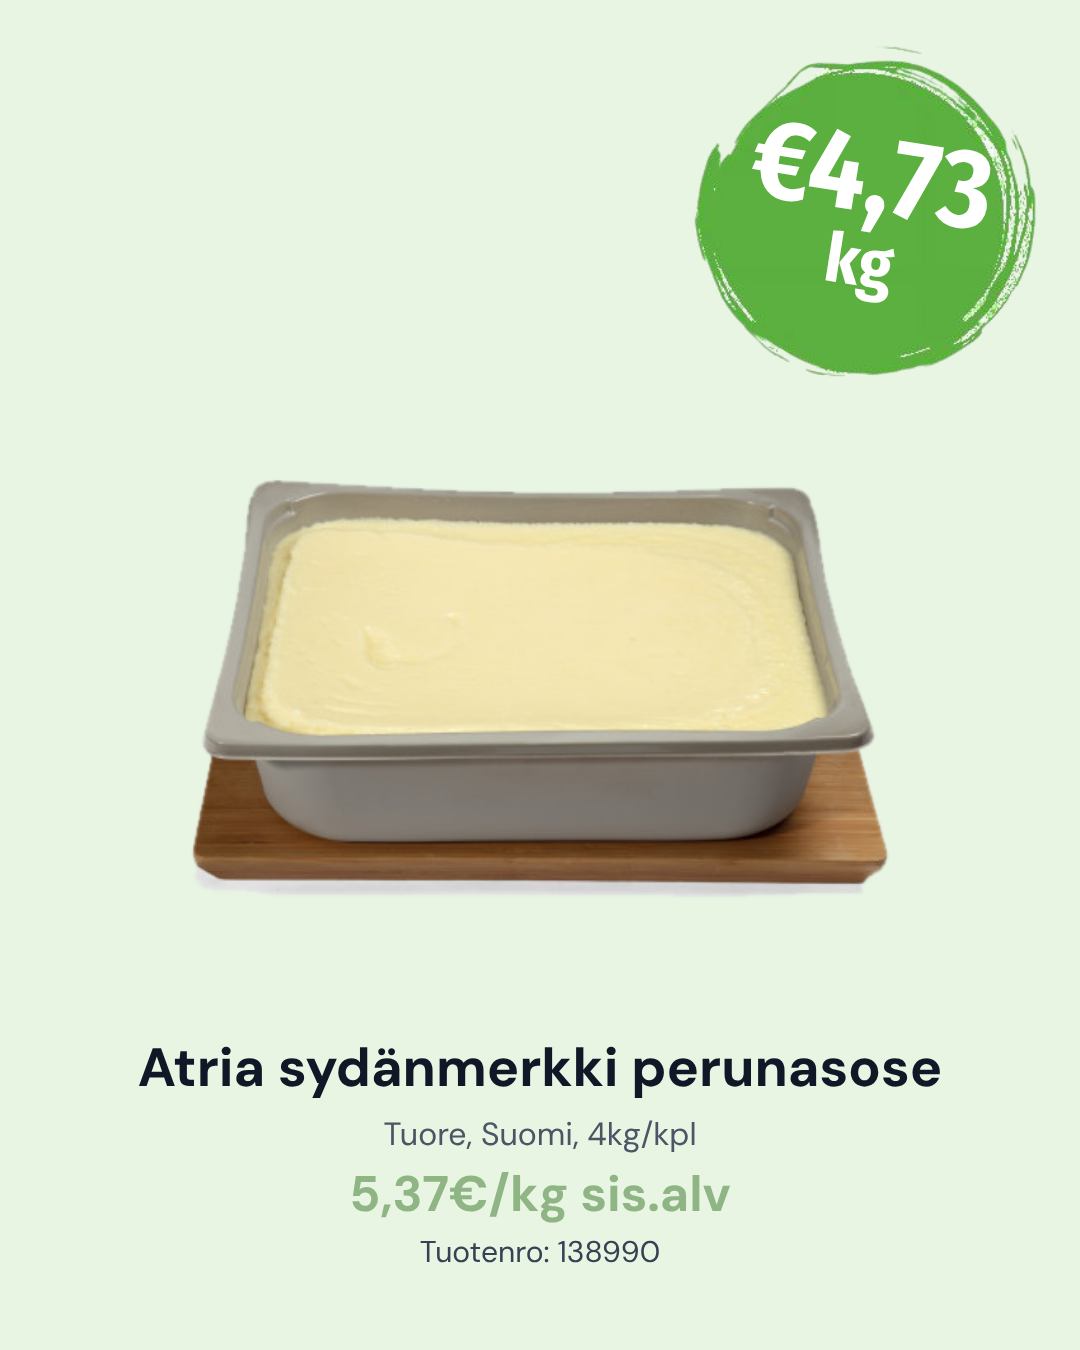
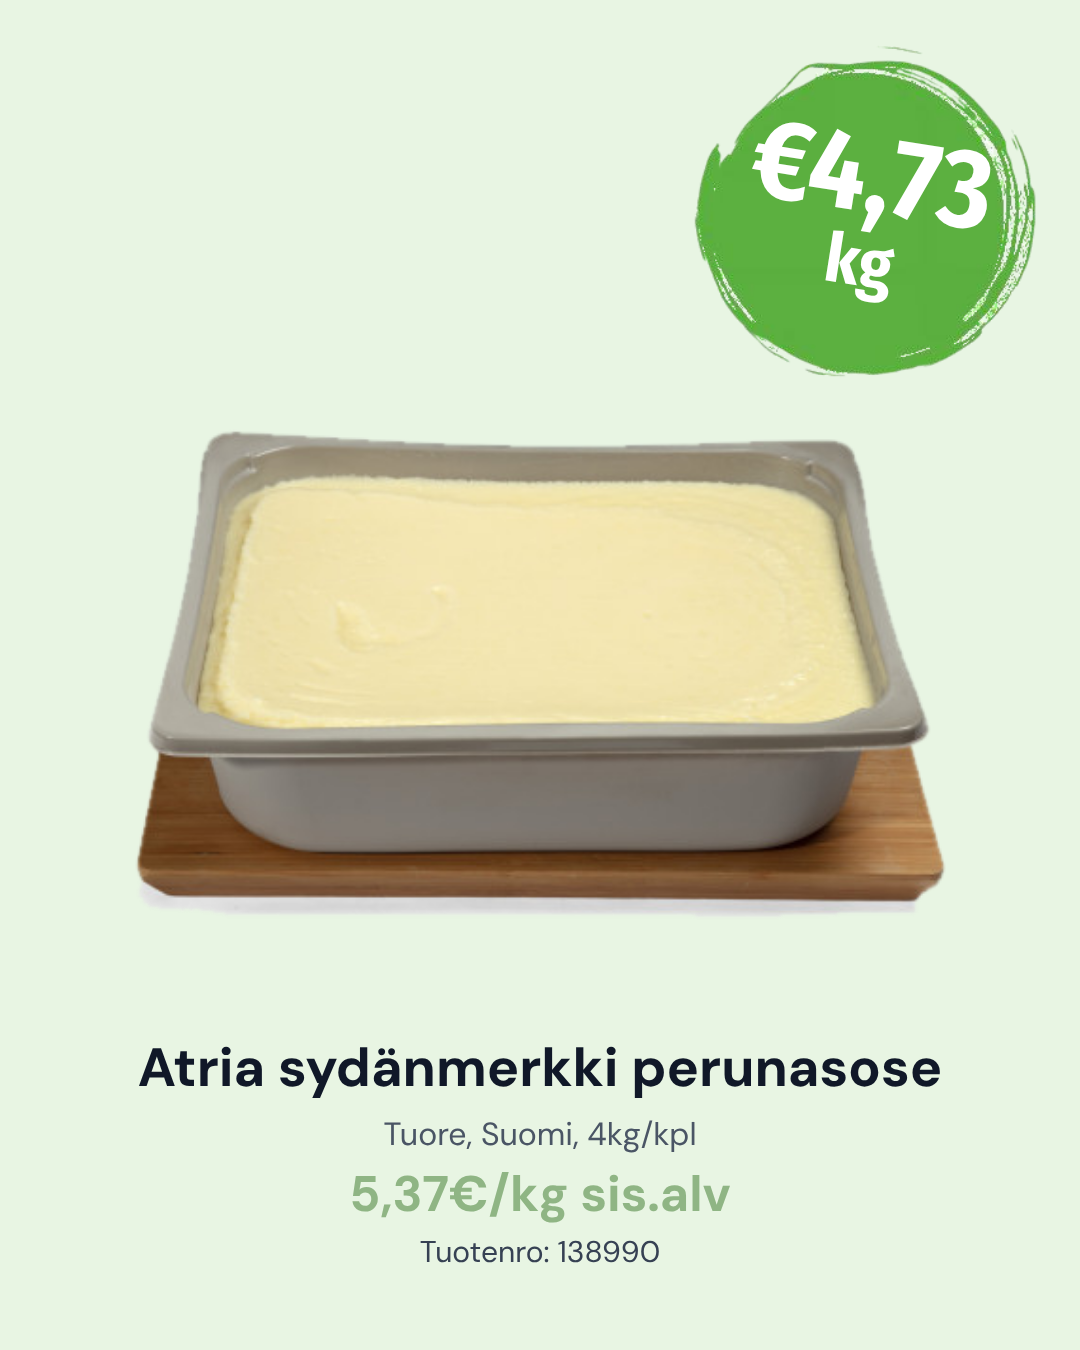
Size Instagram product photos to equal visual area
Scale each photo to roughly the same area instead of fitting one box,
so wide and tall products no longer look small, and give the photo
area more room.

Claude-Session: https://claude.ai/code/session_01X8Lk915b9RmWmbPNMZUzmb

Changed region(s): [[0.1222, 0.3111, 0.8861, 0.6844]]

diff --git a/viikkotarjoukset/insta.py b/viikkotarjoukset/insta.py
@@ -17,7 +17,8 @@ W, H = 1080, 1350
 BADGE = 390  # hintapallon halkaisija (px)
 # Kuva-alue (kuva keskitetään sen alareunaan) ja tekstilohkon alareuna:
 # samat kaikissa kuvissa, jotta sarja on yhtenäinen.
-PHOTO_W, PHOTO_H, PHOTO_TOP = 700, 600, 300
+PHOTO_W, PHOTO_H, PHOTO_TOP = 900, 680, 240
+PHOTO_AREA = 400_000  # tavoitepinta-ala (px²), jotta tuotteet näyttävät yhtä suurilta
 TEXT_BOTTOM = 80
 
 
@@ -25,12 +26,14 @@ def slug(s):
     return re.sub(r"[^a-z0-9]+", "-", s.lower().translate(str.maketrans("äöå", "aoa"))).strip("-")
 
 
-def photo_size(path, max_w, max_h):
+def photo_size(path, max_w, max_h, area):
+    """Skaalaa kuvan suunnilleen samaan pinta-alaan (näyttää yhtä isolta
+    muodosta riippumatta), kuitenkin enintään kuva-alueen kokoiseksi."""
     if not path:
         return max_w, max_h
     with Image.open(path) as im:
         w, h = im.size
-    k = min(max_w / w, max_h / h)
+    k = min((area / (w * h)) ** 0.5, max_w / w, max_h / h)
     return round(w * k), round(h * k)
 
 
@@ -39,7 +42,7 @@ def page_html(it):
     a = lambda n: data_uri(os.path.join(HERE, "pohjat", n))
     vat = (it["price"] * ALV).quantize(Decimal("0.01"), ROUND_HALF_UP)
     img = find("kuvat", it["code"])
-    pw, ph = photo_size(img, PHOTO_W, PHOTO_H)
+    pw, ph = photo_size(img, PHOTO_W, PHOTO_H, PHOTO_AREA)
     price_fs = 112 if len(money(it["price"])) <= 4 else 92
     return f"""<!doctype html><html><head><meta charset="utf-8">
 <link href="https://fonts.googleapis.com/css2?family=DM+Sans:wght@400;500;700&family=Fira+Sans+Condensed:wght@700&display=block" rel="stylesheet">
@@ -48,7 +51,7 @@ html,body{{margin:0}}
 body{{width:{W}px;height:{H}px;background:{BG};overflow:hidden;font-family:'DM Sans';position:relative}}
 body>div{{position:absolute}}
 .pw{{left:{(W - PHOTO_W)//2}px;top:{PHOTO_TOP}px;width:{PHOTO_W}px;height:{PHOTO_H}px;display:flex;align-items:flex-end;justify-content:center}}
-.pw img{{max-width:100%;max-height:100%;width:{pw}px;height:{ph}px}}
+.pw img{{width:{pw}px;height:{ph}px}}
 .badge{{left:{W - BADGE - 18}px;top:18px;width:{BADGE}px;height:{BADGE}px}}
 .badge img{{width:100%;height:100%;display:block}}
 .bt{{position:absolute;inset:0;display:flex;flex-direction:column;align-items:center;justify-content:center;
